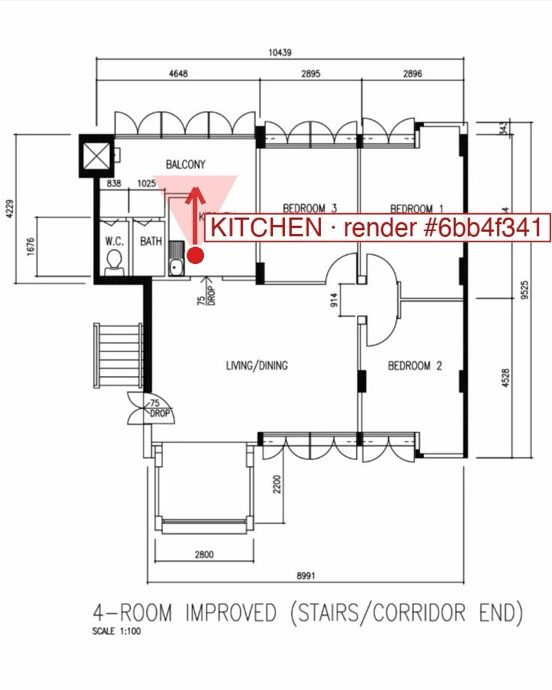
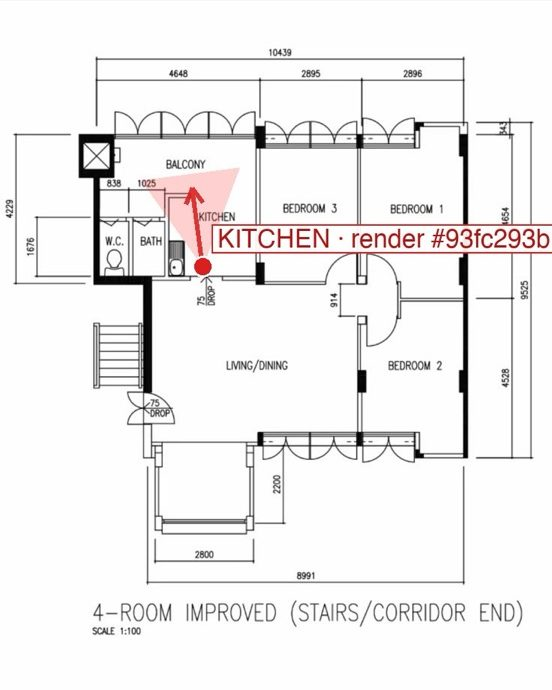
landing: swap proof pair to audited kitchen render #93fc293b, add WhatsApp console + contractor-group mockups

Changed region(s): [[0.308, 0.2435, 1.0, 0.3957], [0.2464, 0.2435, 0.308, 0.3043]]

diff --git a/docs/index.html b/docs/index.html
@@ -73,6 +73,22 @@
   .hashtag{font-family:ui-monospace,SFMono-Regular,Menlo,monospace;background:var(--paper);border:1px solid var(--line);border-radius:5px;padding:1px 6px;font-size:.8em}
   .audit-note{margin-top:20px;background:var(--card);border:1px solid var(--line);border-left:4px solid var(--oak);border-radius:10px;padding:16px 20px;font-size:.95rem}
 
+  /* whatsapp mockups */
+  .wa-row{display:grid;grid-template-columns:1fr 1fr;gap:16px;margin-top:36px}
+  .wa{background:#efe7db;border:1px solid var(--line);border-radius:14px;overflow:hidden;display:flex;flex-direction:column}
+  .wa-head{background:#075e54;color:#fff;padding:10px 14px;font-size:.9rem;font-weight:700}
+  .wa-head small{display:block;font-weight:400;opacity:.85;font-size:.74rem}
+  .wa-body{padding:14px 10px;display:flex;flex-direction:column;gap:8px;font-size:.85rem;flex:1}
+  .msg{max-width:88%;padding:8px 11px;border-radius:9px;line-height:1.45;box-shadow:0 1px 1px rgba(0,0,0,.08)}
+  .in{background:#fff;align-self:flex-start;border-top-left-radius:2px}
+  .out{background:#d9fdd3;align-self:flex-end;border-top-right-radius:2px}
+  .msg .who{font-size:.72rem;font-weight:700;color:var(--oak-deep);display:block;margin-bottom:1px}
+  .msg .t{display:block;text-align:right;font-size:.66rem;color:#8a8a8a;margin-top:3px}
+  .sys{align-self:center;background:#fdf3d7;border-radius:8px;font-size:.72rem;padding:4px 12px;color:#6b5d00;text-align:center;max-width:92%}
+  .attach{display:flex;gap:8px;align-items:center;background:#f5f0e8;border-radius:7px;padding:6px 8px;margin-bottom:6px;font-size:.78rem;color:var(--ink-soft)}
+  .wa-cap{padding:10px 14px;font-size:.8rem;color:var(--ink-soft);border-top:1px solid var(--line);background:var(--card)}
+  .staged{margin-top:14px;font-size:.78rem;color:var(--ink-soft);text-align:center}
+
   /* capabilities */
   .caps{display:grid;grid-template-columns:repeat(auto-fit,minmax(280px,1fr));gap:16px;margin-top:36px}
   .cap{background:var(--card);border:1px solid var(--line);border-radius:14px;padding:24px}
@@ -101,7 +117,7 @@
   .foot{display:flex;justify-content:space-between;gap:16px;flex-wrap:wrap}
 
   @media (max-width:720px){
-    .pair,.twin{grid-template-columns:1fr}
+    .pair,.twin,.wa-row{grid-template-columns:1fr}
     section{padding:52px 0}
   }
 </style>
@@ -182,24 +198,15 @@
     stands — then machine-audited in three ordered layers.</p>
     <div class="pair">
       <figure>
-        <img src="assets/viewpoint-living.jpg" alt="Floor plan with camera position marker and view cone for the living/dining render">
-        <figcaption><b>1 · The viewpoint plan.</b> Red dot = camera, cone = what it sees, stamped with
-        the render's content hash <span class="hashtag">#2fa2fa4b</span>. The pair can't be mixed up.</figcaption>
+        <img src="assets/viewpoint-kitchen.jpg" alt="Floor plan with camera position marker and view cone for the kitchen render">
+        <figcaption><b>1 · The viewpoint plan.</b> Red dot = where the camera stands, cone = what it sees,
+        stamped with the render's content hash <span class="hashtag">#93fc293b</span>. The pair can't be mixed up.</figcaption>
       </figure>
       <figure>
-        <img src="assets/render-living.jpg" alt="AI render of the living/dining room in warm oak and ivory style">
-        <figcaption><b>2 · The constrained render.</b> Living/dining, homeowner's brief: oak vinyl,
-        warm ivory, open-concept kitchen. Hash <span class="hashtag">#2fa2fa4b</span> matches the plan above.</figcaption>
-      </figure>
-      <figure>
-        <img src="assets/viewpoint-kitchen.jpg" alt="Floor plan with camera marker for the kitchen render">
-        <figcaption><b>Kitchen viewpoint</b> <span class="hashtag">#6bb4f341</span> — camera at the service
-        passage, looking across the counter run.</figcaption>
-      </figure>
-      <figure>
-        <img src="assets/render-kitchen.jpg" alt="AI render of the HDB kitchen">
-        <figcaption><b>Kitchen render</b> <span class="hashtag">#6bb4f341</span> — HDB typology enforced:
-        window band above the counter, solid parapet, no invented balconies.</figcaption>
+        <img src="assets/render-kitchen.jpg" alt="AI render of the HDB kitchen after one audit-driven re-edit">
+        <figcaption><b>2 · The audited render.</b> Kitchen, homeowner's brief: oak vinyl, warm ivory,
+        beige counters. Hash <span class="hashtag">#93fc293b</span> matches the plan above — this is the
+        surgically re-edited pass after the audit rejected the first attempt.</figcaption>
       </figure>
     </div>
     <div class="audit-note">
@@ -209,6 +216,44 @@
       re-edited or escalated to you — never silently shipped.
     </div>
   </div>
+</section>
+
+<section id="wa" class="wrap">
+  <div class="kicker">In your WhatsApp</div>
+  <h2>What it actually looks like.</h2>
+  <p class="lede">Left: the family console, where the household briefs the agent and releases its drafts.
+  Right: the renovation group, where the agent — once approved — speaks as you.</p>
+  <div class="wa-row">
+    <div class="wa">
+      <div class="wa-head">Reno Console 🔒<small>you, Wei Lin — group membership = who can approve</small></div>
+      <div class="wa-body">
+        <div class="msg in"><span class="who">Wei Lin</span>
+          <div class="attach">📎 floor-plan.jpg</div>
+          4-room resale, budget S$48k. Oak vinyl, warm ivory walls, no grid on windows, open-concept kitchen
+          <span class="t">1:09 PM</span></div>
+        <div class="msg out">📐 Received. Reading the plan into per-room briefs (walls · windows · camera), then rendering every room against your brief…<span class="t">1:09 PM ✓✓</span></div>
+        <div class="msg out">🚦 Compliance check on your wishlist:<br>
+          🟡 open kitchen wall — allowed with an HDB permit ("A permit is required before demolishing any wall…")<br>
+          🔴 fridge recess in the store room — that's the bomb shelter; its walls can never be hacked.<br>
+          Draft reply declining the recess is ready — <b>ok 2</b> to send.<span class="t">1:11 PM ✓✓</span></div>
+        <div class="msg in"><span class="who">Wei Lin</span>ok 2<span class="t">1:14 PM</span></div>
+        <div class="msg out">✅ Sent to the renovation group as you.<span class="t">1:14 PM ✓✓</span></div>
+      </div>
+      <div class="wa-cap"><b>Either spouse approves.</b> The agent replies inside your own account — feeding it a floor plan is just sending a photo.</div>
+    </div>
+    <div class="wa">
+      <div class="wa-head">Reno Group 🛠<small>you, Contractor T, Electrician R</small></div>
+      <div class="wa-body">
+        <div class="msg in"><span class="who">Contractor T</span>boss sorry, tiler MC today, flooring push to next week can 🙏<span class="t">9:41 AM</span></div>
+        <div class="sys">RenoAI logs commitment C001 · detects the slip · drafts the chase — nothing is sent until a human taps ok</div>
+        <div class="msg out">Hi T, we'd agreed flooring wraps this Friday. MC understood — but the painter is booked right behind the tiler. Can you confirm Monday as the recovery date?<span class="t">drafted by RenoAI · released with ok 1 · 9:47 AM ✓✓</span></div>
+        <div class="msg in"><span class="who">Contractor T</span>ok ok monday confirm 👍<span class="t">9:52 AM</span></div>
+        <div class="sys">New commitment C004 — flooring · Monday — logged to the ledger automatically</div>
+      </div>
+      <div class="wa-cap"><b>Contractors see a well-organized homeowner, never a bot.</b> Every promise is on the ledger; every chase is drafted, human-released, and sent as you.</div>
+    </div>
+  </div>
+  <p class="staged">Staged recreation (names invented) — the message flow, approval gate and ledger behaviour match the live system exactly.</p>
 </section>
 
 <section id="caps" class="wrap">